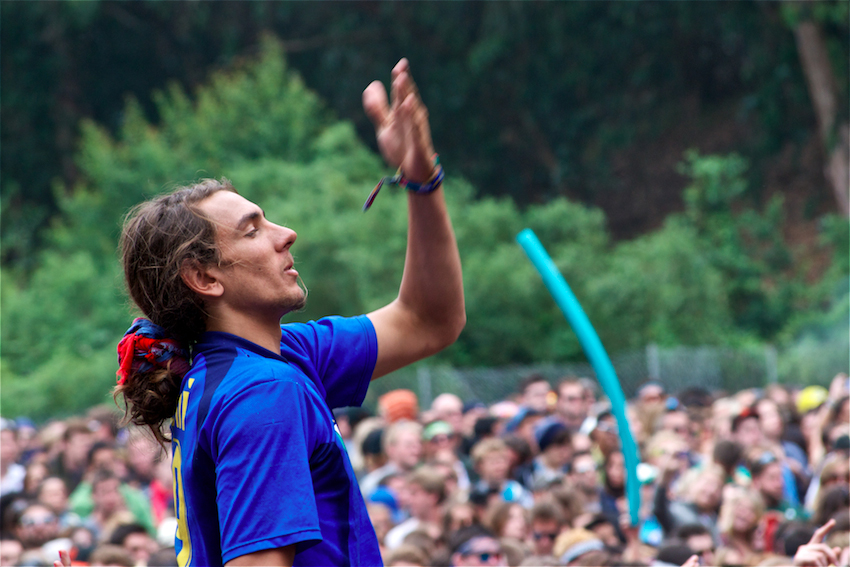
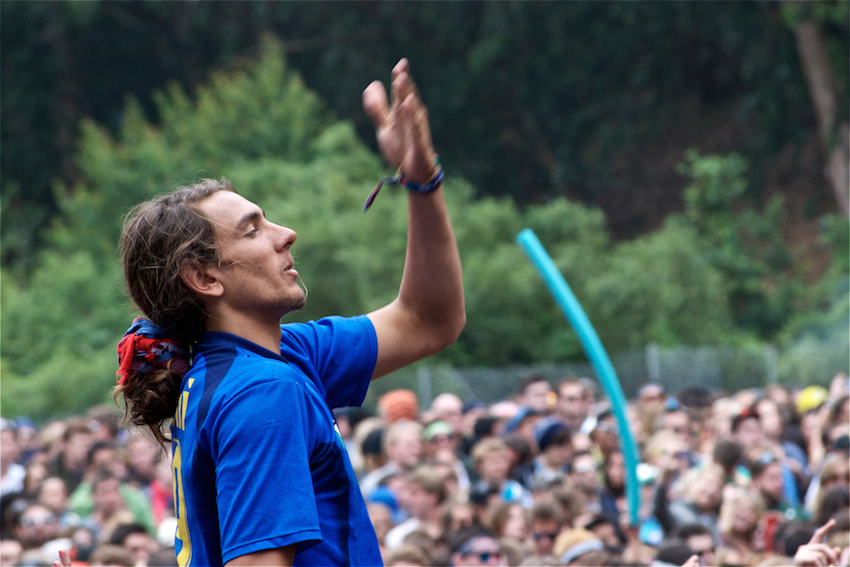
Added meta data on roll over

diff --git a/index.html b/index.html
@@ -7,15 +7,55 @@
 </head>
 <body>
 <div id="howto">Use j, k, up, down, or spacebar to navigate.</div>
-<div class="photo" id="0"><img alt="images/2011/08/24/smitty.jpg" src="images/2011/08/24/smitty.jpg"></div>
-<div class="photo" id="1"><img alt="images/2011/08/23/010.jpg" src="images/2011/08/23/010.jpg"></div>
-<div class="photo" id="2"><img alt="images/2011/08/16/008.jpg" src="images/2011/08/16/008.jpg"></div>
-<div class="photo" id="3"><img alt="images/2011/08/12/007.jpg" src="images/2011/08/12/007.jpg"></div>
-<div class="photo" id="4"><img alt="images/2011/08/10/006.jpg" src="images/2011/08/10/006.jpg"></div>
-<div class="photo" id="5"><img alt="images/2011/08/10/005.jpg" src="images/2011/08/10/005.jpg"></div>
-<div class="photo" id="6"><img alt="images/2011/08/10/004.jpg" src="images/2011/08/10/004.jpg"></div>
-<div class="photo" id="7"><img alt="images/2011/08/10/003.jpg" src="images/2011/08/10/003.jpg"></div>
-<div class="photo" id="8"><img alt="images/2011/06/30/002.jpg" src="images/2011/06/30/002.jpg"></div>
-<div class="photo" id="9"><img alt="images/2011/06/30/001.jpg" src="images/2011/06/30/001.jpg"></div>
+<div class="photo" id="0">
+<img src="images/2011/08/24/smitty.jpg" alt="images/2011/08/24/smitty.jpg"><div class="toolbar">
+<span>1/40</span><span>f1.8</span><span>NIKON D80</span>
+</div>
+</div>
+<div class="photo" id="1">
+<img src="images/2011/08/23/010.jpg" alt="images/2011/08/23/010.jpg"><div class="toolbar">
+<span>1/160</span><span>f5.0</span><span>NIKON D80</span>
+</div>
+</div>
+<div class="photo" id="2">
+<img src="images/2011/08/16/008.jpg" alt="images/2011/08/16/008.jpg"><div class="toolbar">
+<span>1/100</span><span>f4.5</span><span>NIKON D80</span>
+</div>
+</div>
+<div class="photo" id="3">
+<img src="images/2011/08/12/007.jpg" alt="images/2011/08/12/007.jpg"><div class="toolbar">
+<span>1/25</span><span>f1.8</span><span>NIKON D80</span>
+</div>
+</div>
+<div class="photo" id="4">
+<img src="images/2011/08/10/006.jpg" alt="images/2011/08/10/006.jpg"><div class="toolbar">
+<span>1/400</span><span>f4.5</span><span>NIKON D80</span>
+</div>
+</div>
+<div class="photo" id="5">
+<img src="images/2011/08/10/005.jpg" alt="images/2011/08/10/005.jpg"><div class="toolbar">
+<span>1/160</span><span>f5.6</span><span>NIKON D80</span>
+</div>
+</div>
+<div class="photo" id="6">
+<img src="images/2011/08/10/004.jpg" alt="images/2011/08/10/004.jpg"><div class="toolbar">
+<span>1/320</span><span>f4.5</span><span>NIKON D80</span>
+</div>
+</div>
+<div class="photo" id="7">
+<img src="images/2011/08/10/003.jpg" alt="images/2011/08/10/003.jpg"><div class="toolbar">
+<span>1/160</span><span>f8.0</span><span>NIKON D80</span>
+</div>
+</div>
+<div class="photo" id="8">
+<img src="images/2011/06/30/002.jpg" alt="images/2011/06/30/002.jpg"><div class="toolbar">
+<span>1/800</span><span>f5.6</span><span>NIKON D80</span>
+</div>
+</div>
+<div class="photo" id="9">
+<img src="images/2011/06/30/001.jpg" alt="images/2011/06/30/001.jpg"><div class="toolbar">
+<span>1/640</span><span>f4.5</span><span>NIKON D80</span>
+</div>
+</div>
 </body>
 </html>

diff --git a/styles/master.css b/styles/master.css
@@ -30,56 +30,41 @@ body {
   background: rgb(20, 20, 20);
   width: 850px;
   margin: 0 auto;
-  color: rgba(255, 255, 255, 0.5);
+  color: rgba(255, 255, 255, 0.8);
+  font-size: 14px;
 }
 
 .photo {
   padding: 125px 0;
 }
 
+.italics {
+  font-style: italic;
+}
+
 img {
   box-shadow: 0 0 50px rgb(0, 0, 0);
 }
 
+.toolbar {
+  position: relative;
+  bottom: 30px;
+  height: 30px;
+  width: 100%;
+  text-align: right;
+  background-color: rgba(0, 0, 0, 0.8);
+  overflow: hidden;
+  opacity: 0;
+}
+
+.toolbar span {
+  margin: 0 15px;
+  line-height: 30px;
+}
+
 #howto {
-  font-size: 16px;
   opacity: 0.9;
   bottom: 40px;
   position: fixed;
   left: 39%;
-}
-
-#controls {
-  position: fixed;
-  top: 45%;
-  right: 75px;
-  height: 100%;
-}
-
-#controls a {
-  border-top: 1px solid rgba(255, 255, 255, 0.2);
-  border-bottom: 1px solid rgb(0, 0, 0);
-  width: 20px;
-  height: 5%;
-  min-height: 50px;
-  display: block;
-  background: rgb(50, 50, 50);
-}
-
-#controls a:hover {
-  background: rgb(55, 55, 55);
-}
-
-#controls a:active {
-  background: rgb(45, 45, 45);
-}
-
-#controls a:first-child {
-  border-top-left-radius: 3px;
-  border-top-right-radius: 3px;
-}
-
-#controls a:last-child {
-  border-bottom-left-radius: 3px;
-  border-bottom-right-radius: 3px;
 }

diff --git a/scripts/y-app.js b/scripts/y-app.js
@@ -5,6 +5,12 @@ function resize() {
   var padding = (windowHeight - 567) / 2;
   Array.each($$('div.photo'), function(photo) {
     photo.setStyle('padding', padding + 'px 0px');
+    photo.addEvent('mouseenter', function() {
+      this.getElement('.toolbar').fade('in');
+    });
+    photo.addEvent('mouseleave', function() {
+      this.getElement('.toolbar').fade('out');
+    });
   });
   var howto = document.id('howto');
   var height = howto.getSize().y;

diff --git a/update.rb b/update.rb
@@ -1,6 +1,7 @@
 require 'rubygems'
 require 'nokogiri'
 require 'find'
+require 'exifr'
 
 IMAGE_DIR = './images'
 CSS_DIR = './styles'
@@ -58,8 +59,14 @@ builder = Nokogiri::HTML::Builder.new do |doc|
         doc.text 'Use j, k, up, down, or spacebar to navigate.'
       }
       images.each_with_index do |image, i|
+        @exif = EXIFR::JPEG.new(image)
         doc.div(:id => "#{i}", :class => 'photo') {
           doc.img(:src => image, :alt => image)
+          doc.div(:class => 'toolbar') {
+            doc.span(@exif.exposure_time.to_s)
+            doc.span("f#{ @exif.f_number.to_f }")
+            doc.span(@exif.model)
+          }
         }
       end
     }
